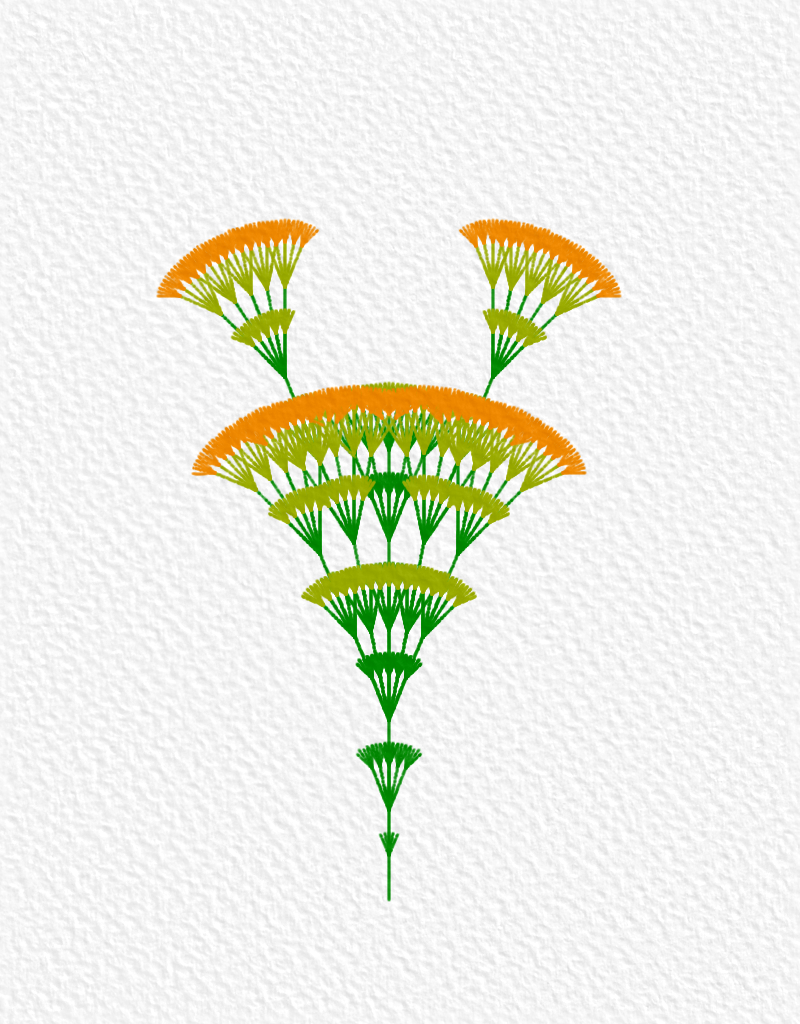
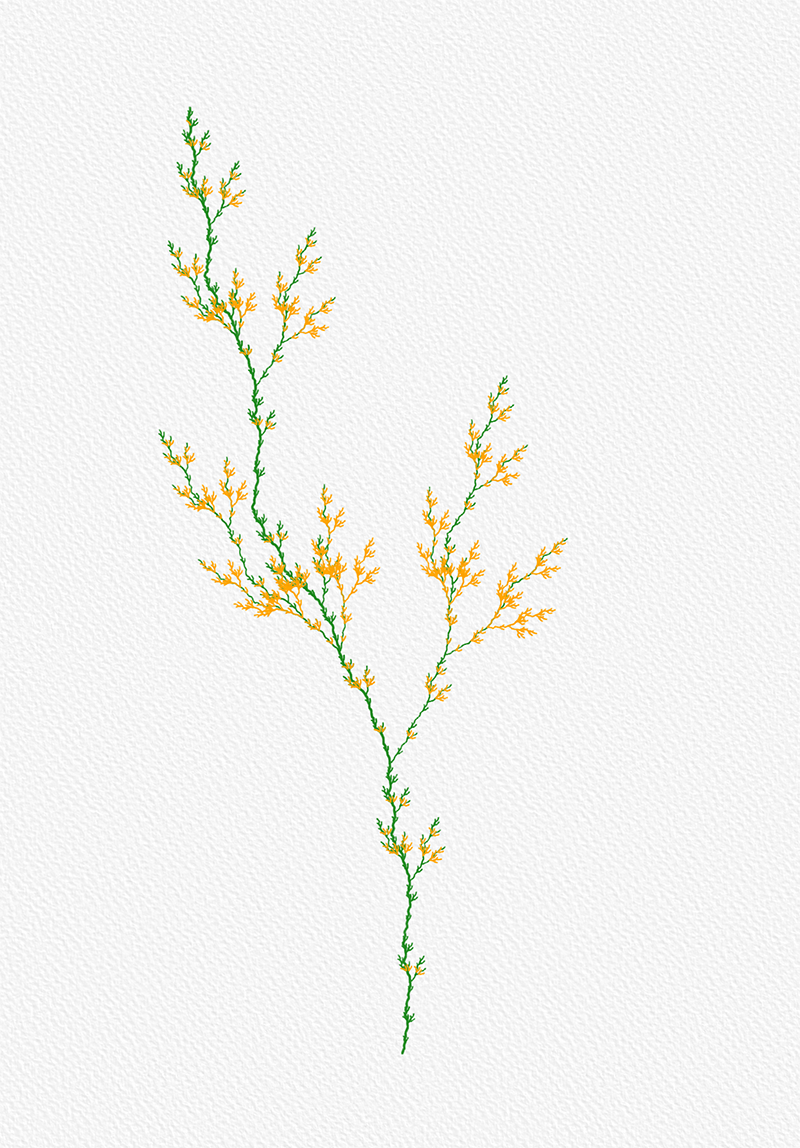
Examples, styling, new plants

Changed region(s): [[0.1875, 0.0938, 0.7812, 0.9062]]

diff --git a/ls_painter.html b/ls_painter.html
@@ -136,9 +136,9 @@
     })
   </script>
 
-  <img id="refresh" class="control" src="./data/images/paint_48.svg" title="Paint [Ctrl-P]" style="right:206px; width:42px" alt="Paint" onclick="window.paint()">
+  <img id="paint" class="control" src="./data/images/paint_48.svg" title="Paint [Ctrl-P]" style="right:206px; width:42px" alt="Paint" onclick="window.paint()">
   <img id="refresh" class="control" src="./data/images/refresh_48.svg" title="Refresh [Ctrl-R]" style="right:156px; width:46px" alt="Refresh" onclick="lsRender()">
-  <img id="save" class="control" src="./data/images/save_48.svg" title="Save [Ctrl-S]" style="right:112px; width:42px" alt="Save" onclick="saveLS()">
+  <img id="save" class="control" src="./data/images/save_48.svg" title="Save [Ctrl-S]" style="right:110px; width:42px" alt="Save" onclick="saveLS()">
   <img id="load" class="control" src="./data/images/load_48.svg" title="Load [Ctrl-L]" style="right:60px; width:42px" alt="Load" onclick="lsLoadPicker()">
   <img id="help" class="control" src="./data/images/help_48.svg" title="Help [Ctrl-H]" style="right:8px; width:42px" alt="Help" onclick="about.inert=true; about.showModal(); about.inert=false;">
 

diff --git a/svg_painter.js b/svg_painter.js
@@ -1,6 +1,7 @@
 // TODO
 //
 // 1. Transparent preview background on Paper/Visible = false
+// 2. Move icons right
 //
 import { guiInit, gui } from './modules/gui.js';
 import { saveEvents, paint } from './modules/painter.js';

diff --git a/modules/painter.js b/modules/painter.js
@@ -1,5 +1,6 @@
 // TODO
 //
+// 0. Alert on ws error (move from mio_painter.js to painter.js)
 // 1. Position sketches at the center and scale on load (+/-)
 // 2. Turn off engine by default
 // 3. Check shotcuts, (P)rint ?
